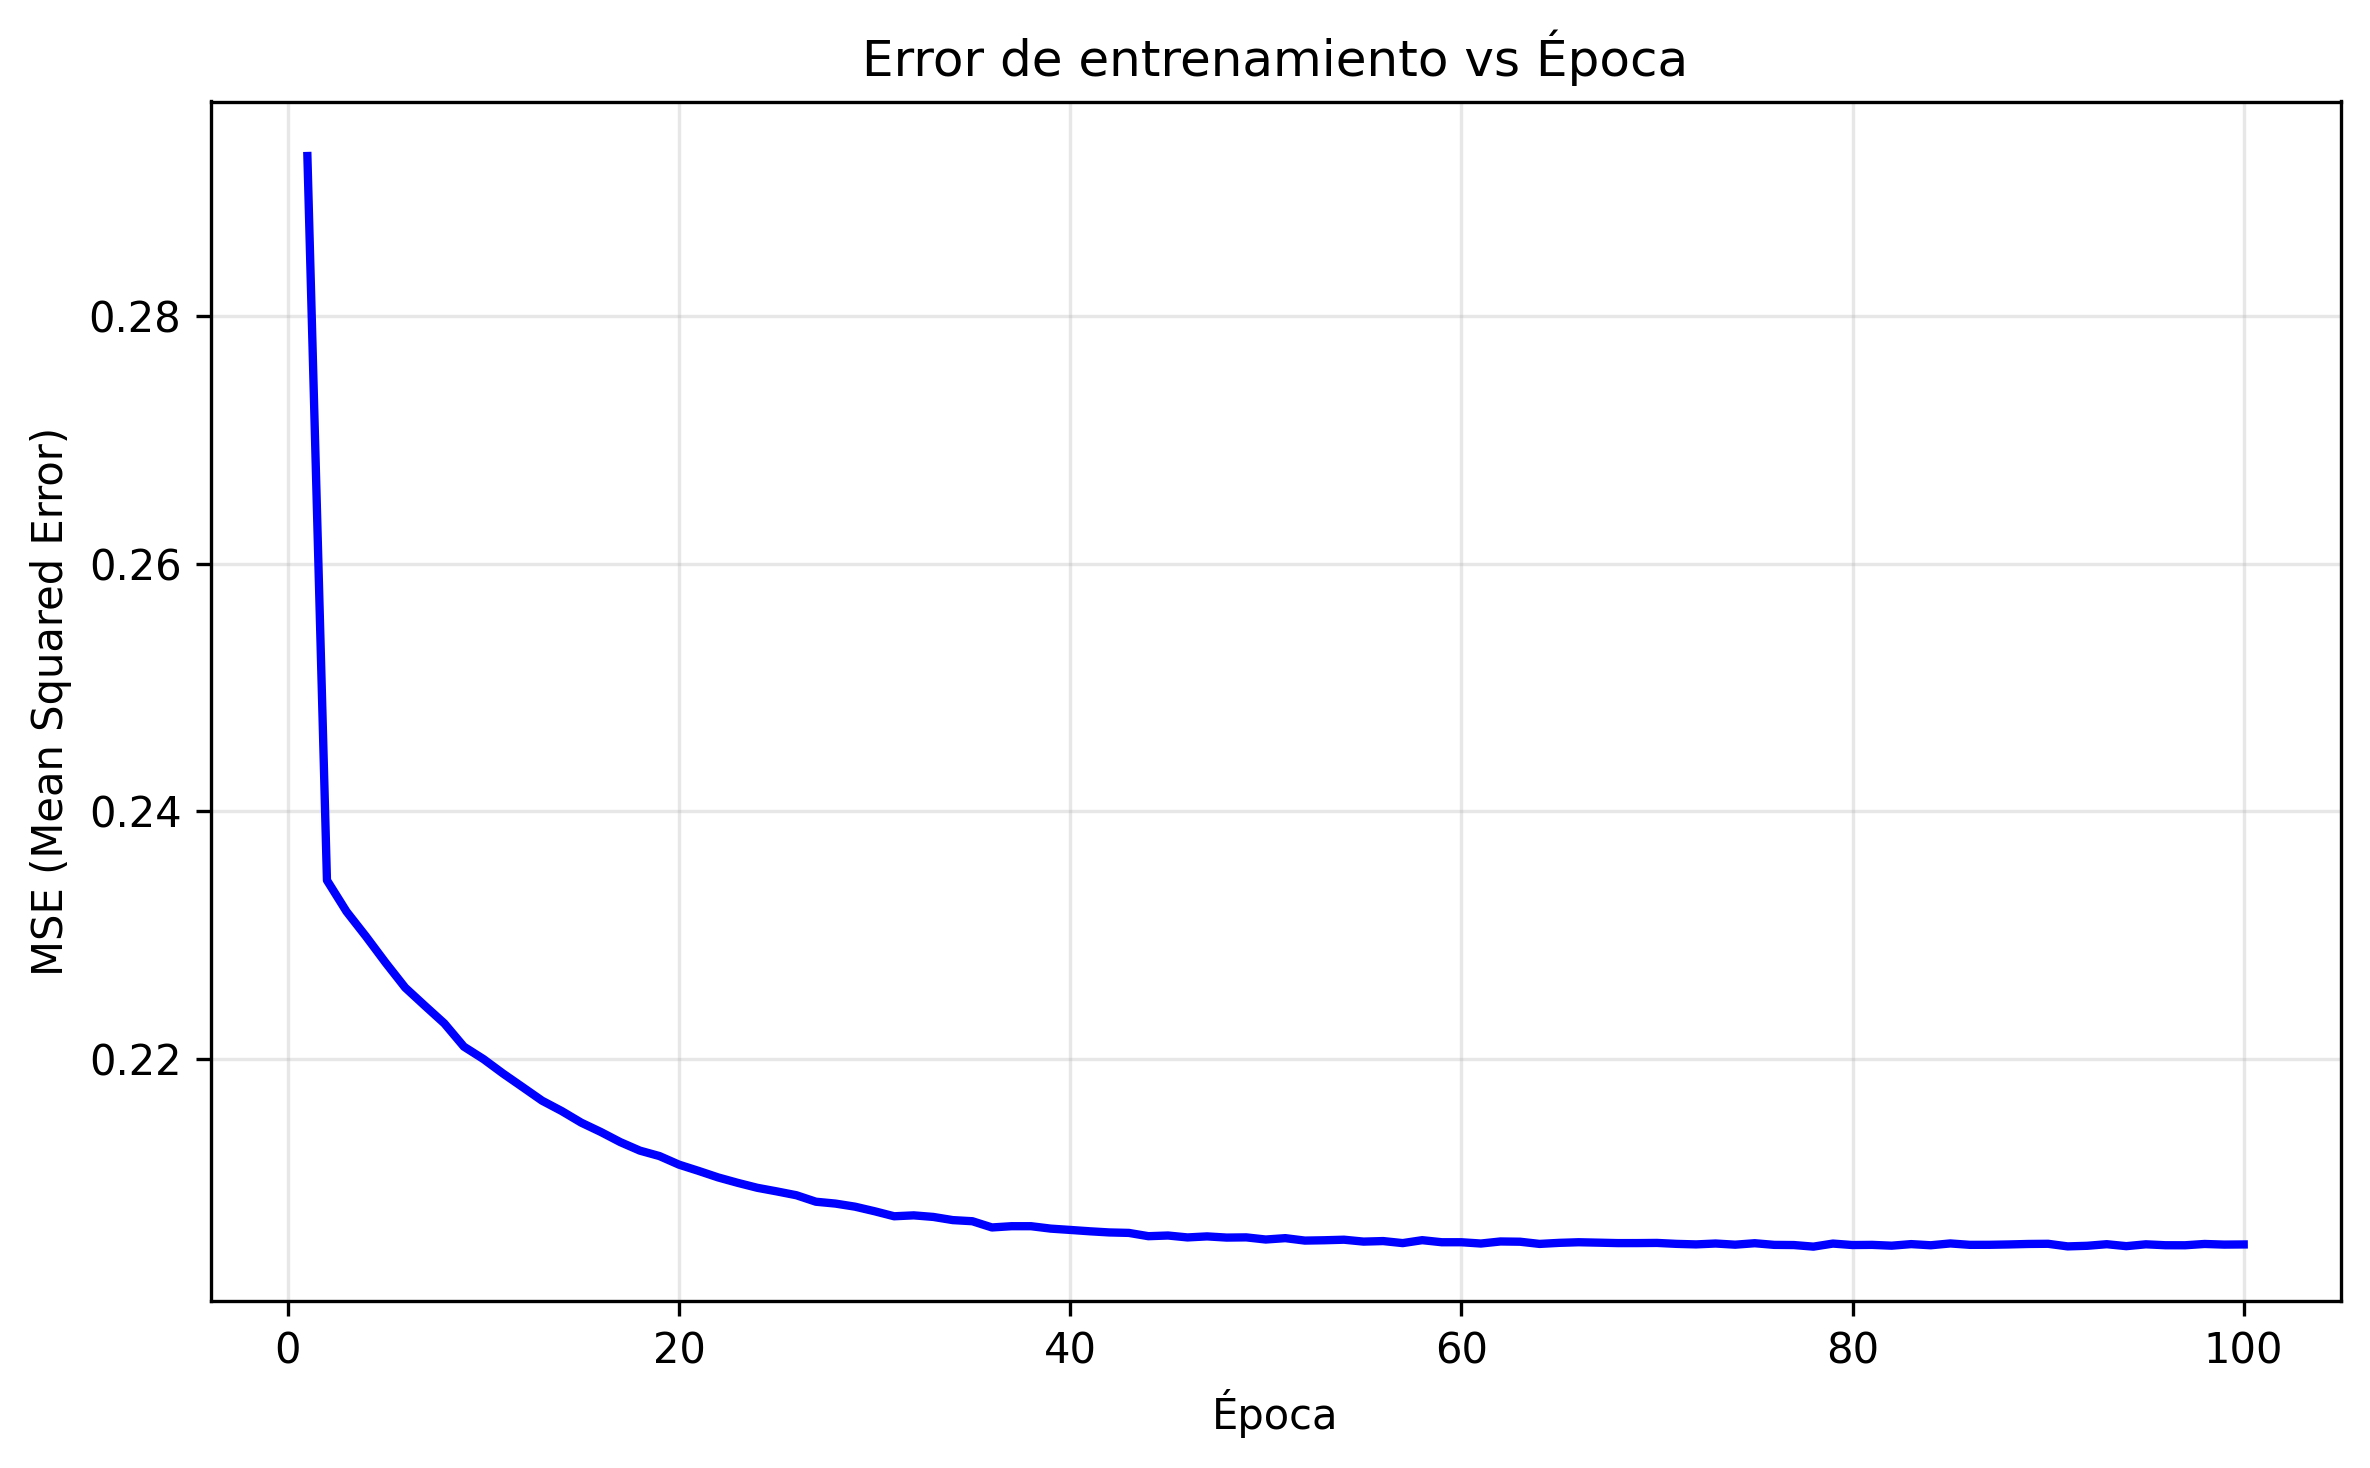
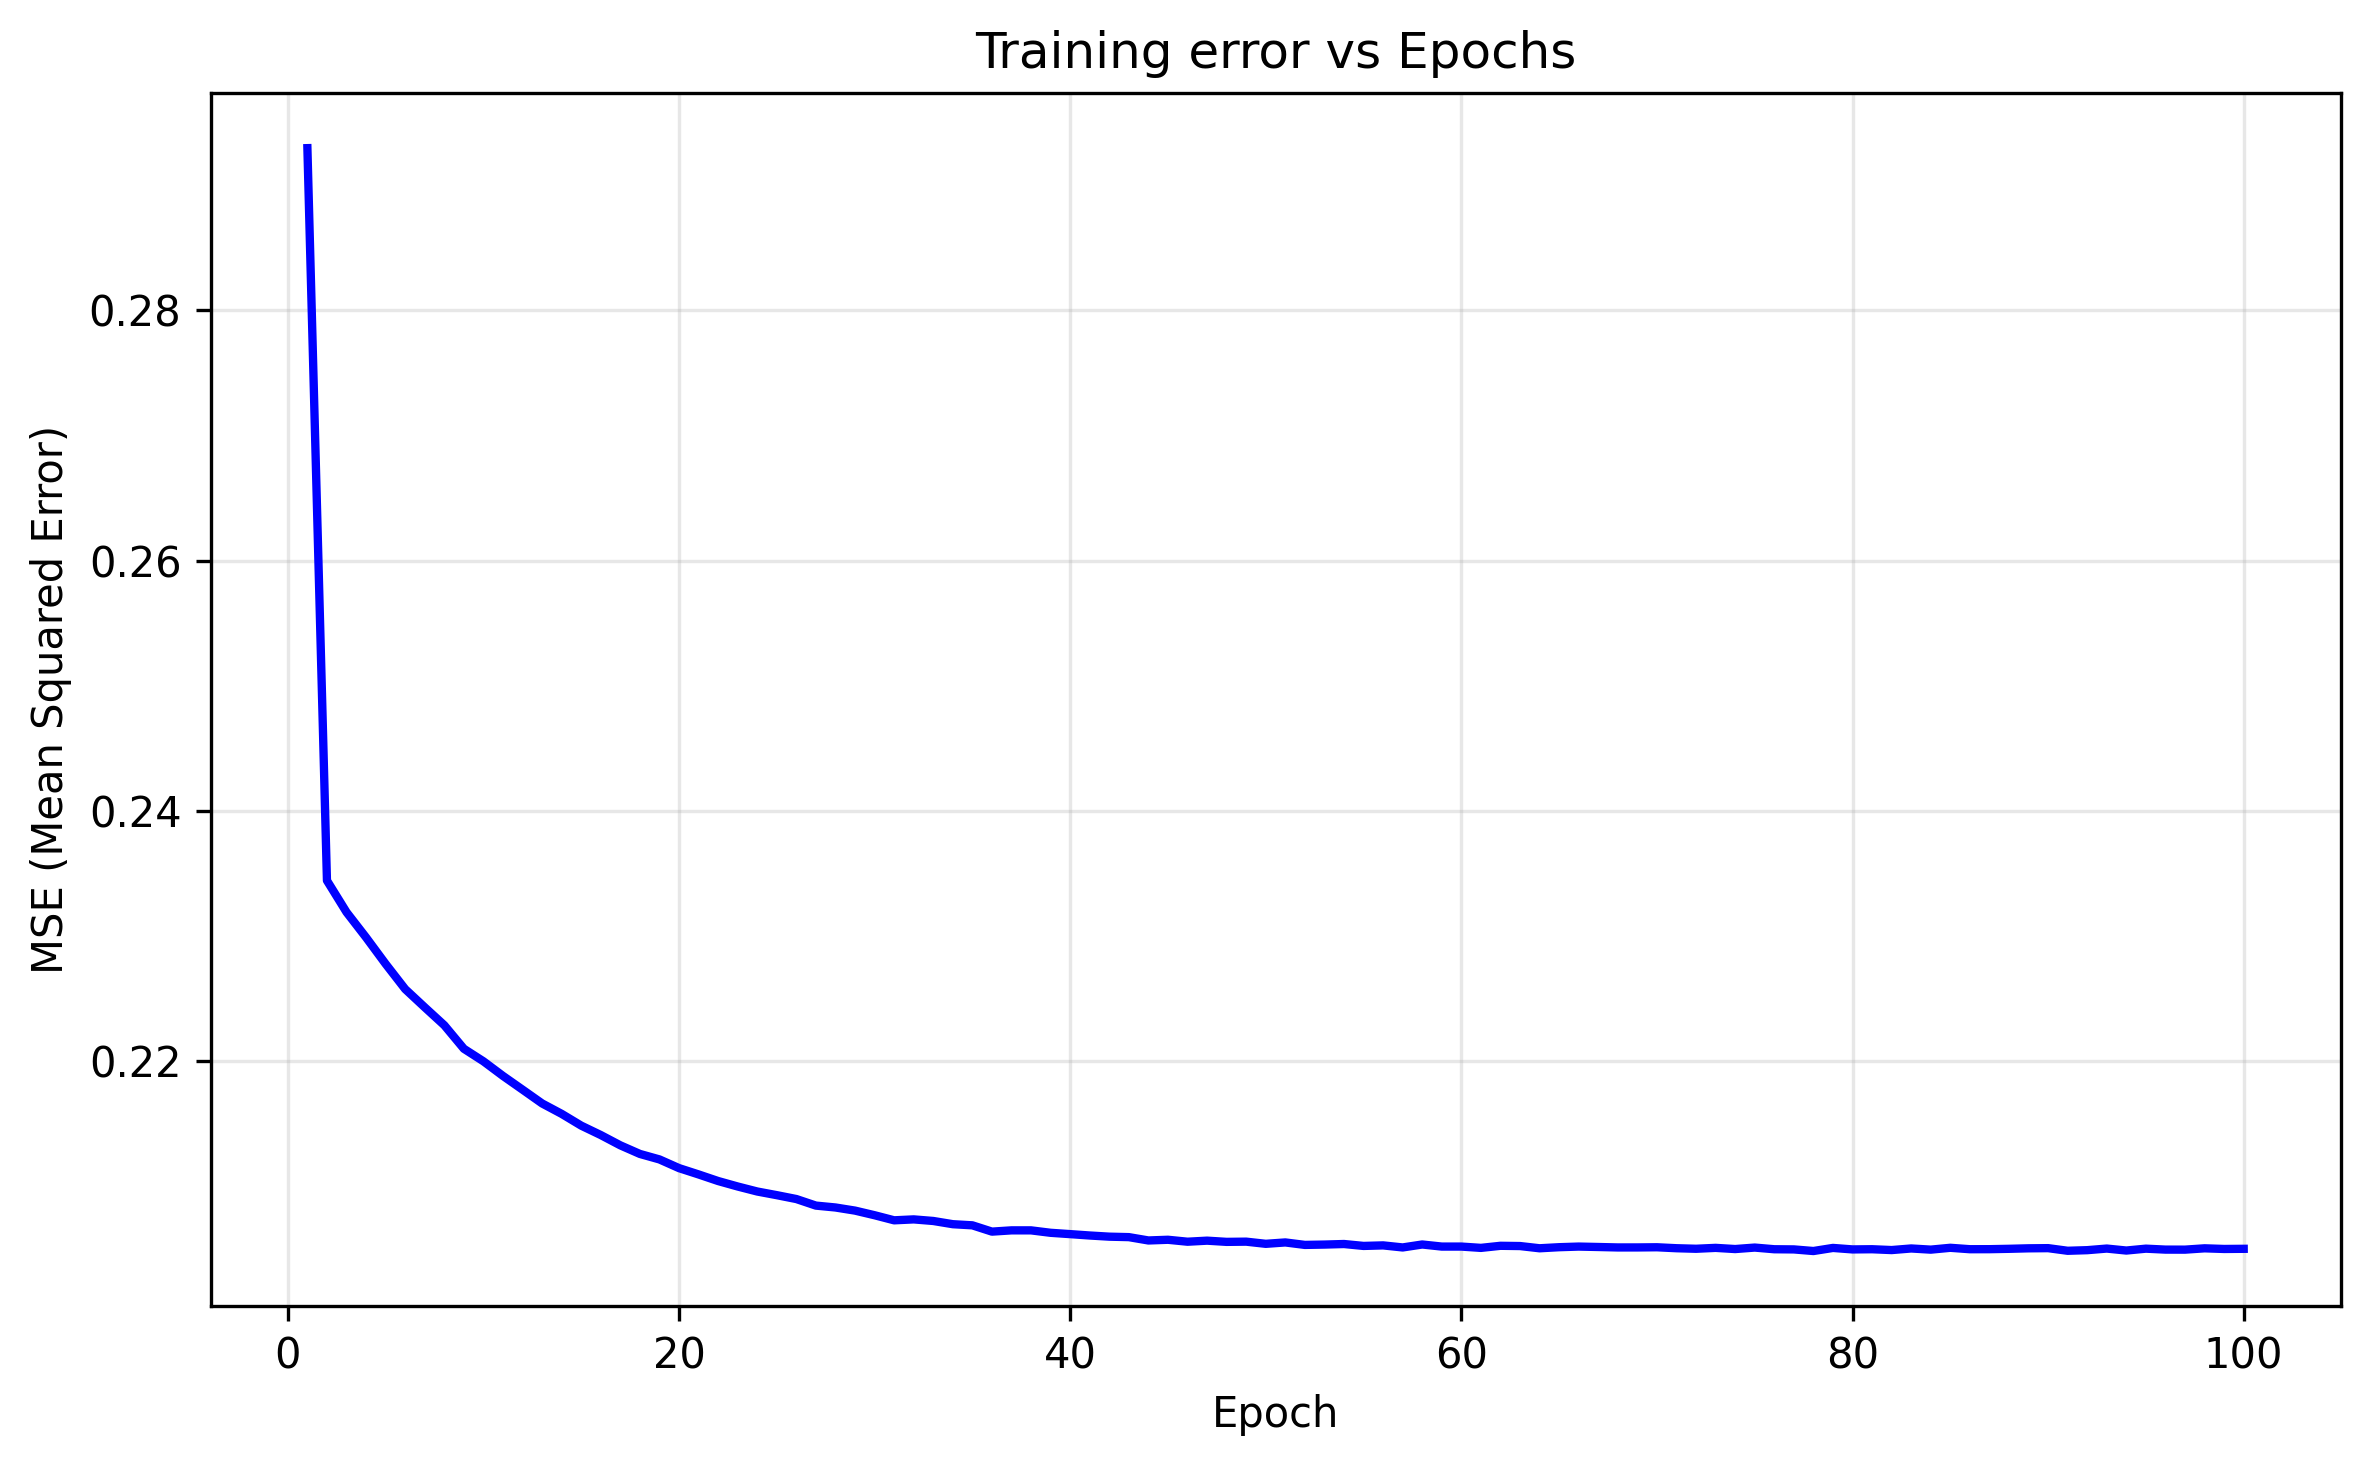
H2-solved task 6

diff --git a/H2/LinearRegression.py b/H2/LinearRegression.py
@@ -17,7 +17,7 @@ class ClassLMS():
 
     def load_features(self):
         print('-' * 30)
-        print('Starting to load data set')
+        print('Starting to load dataset')
         X_train = pd.read_csv('dataset/features-train.tsv', sep='\t')
         X_test = pd.read_csv('dataset/features-test.tsv', sep='\t')
         y_train = pd.read_csv('dataset/labels-train.tsv', sep='\t')
@@ -28,7 +28,7 @@ class ClassLMS():
                 .replace({'true': True, 'false': False})
                 .astype(int) if y_train['is_human'].dtype == object else y_train['is_human'].astype(int)
             )
-        print('data set load successfully')
+        print('Dataset loaded successfully')
         
         # Store in instance
         self.X_train = X_train
@@ -95,7 +95,7 @@ class ClassLMS():
 
         print(f"LMS weights (standardized): {w}")
         print(f"LMS weights (original space): W0={W0}, W1={W1}, W2={W2}")
-        print('Model train succesfuly')
+        print('Model trained successfully')
         print (f'Error: {error_history[-1]}')
 
         # Store all parameters for later visualization
@@ -160,9 +160,9 @@ class ClassLMS():
         # Graph MSE error
         plt.figure(figsize=(8, 5))
         plt.plot(range(1, len(self.error_history) + 1), self.error_history, 'b-', linewidth=2)
-        plt.xlabel('Época')
+        plt.xlabel('Epoch')
         plt.ylabel('MSE (Mean Squared Error)')
-        plt.title('Error de entrenamiento vs Época')
+        plt.title('Training error vs Epochs')
         plt.grid(True, alpha=0.3)
         plt.tight_layout()
         plt.savefig(f'error_scatter.png', dpi=300, bbox_inches='tight')
